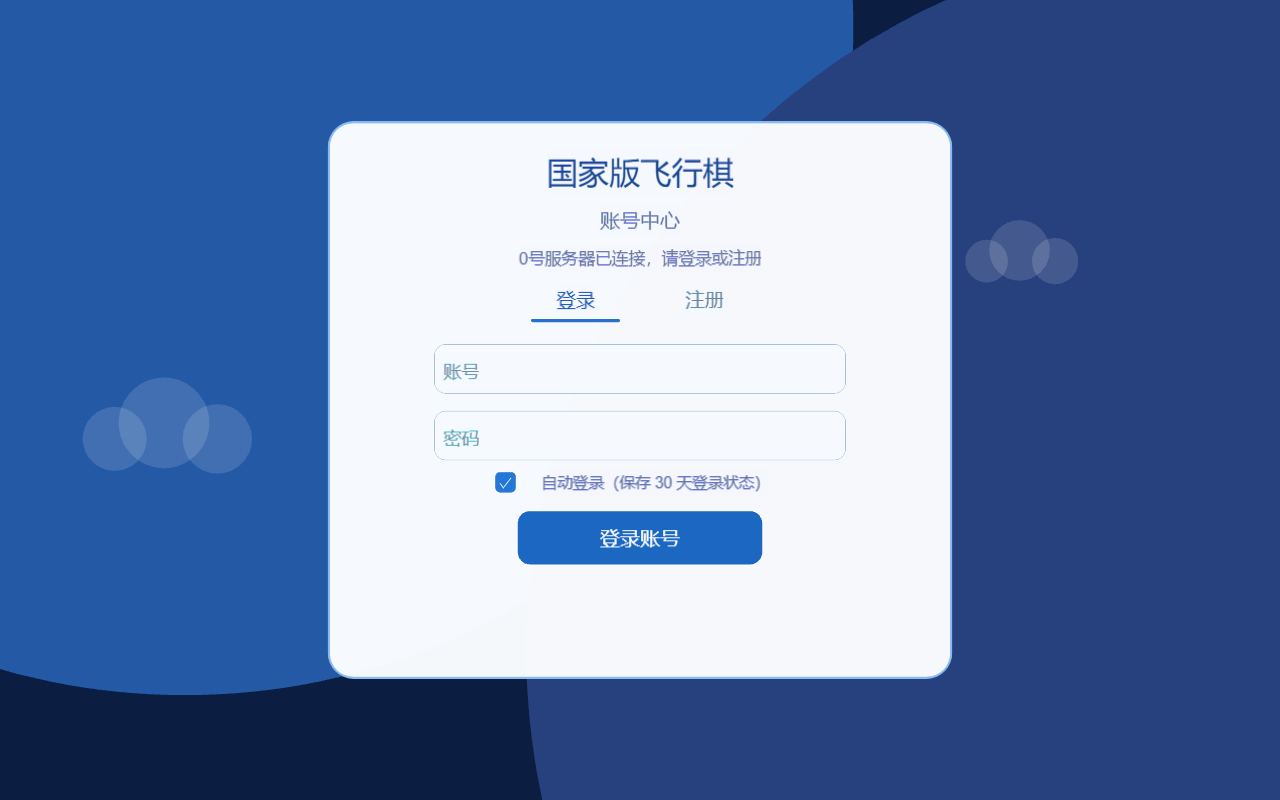
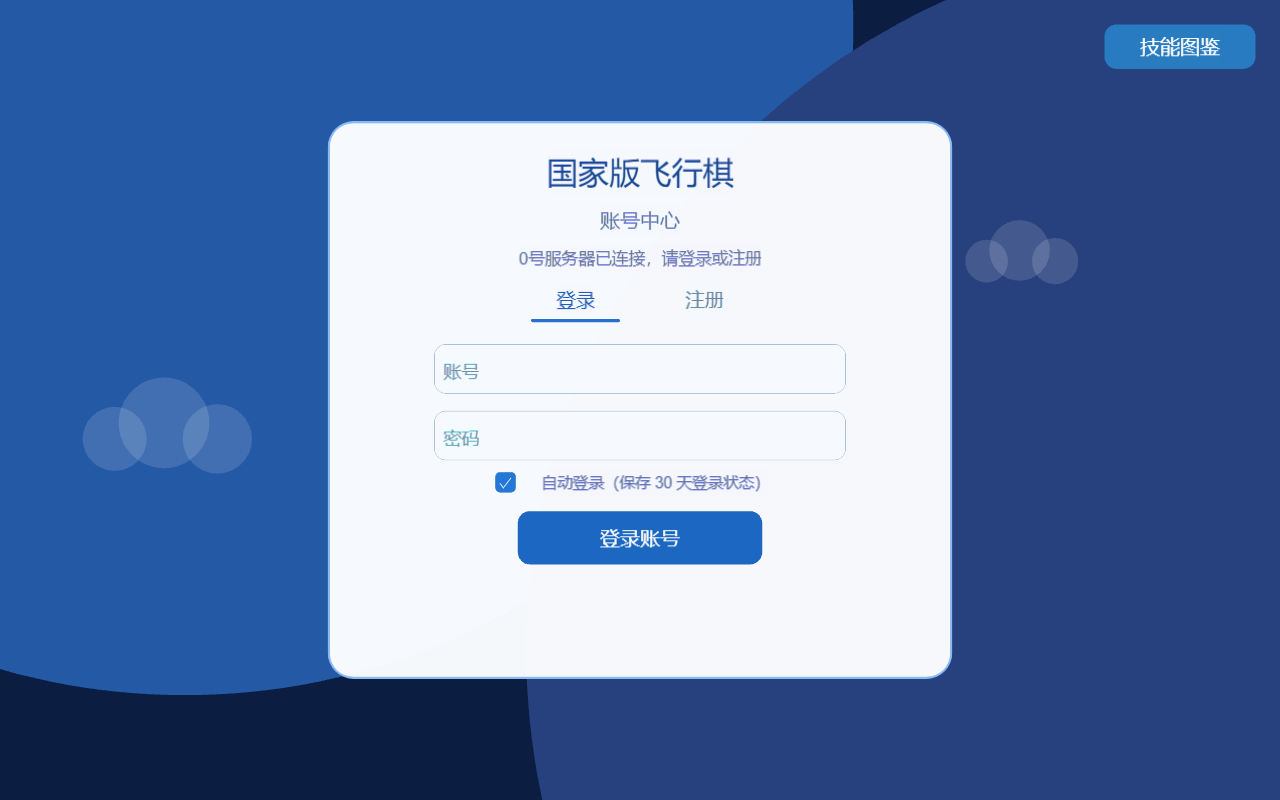
docs(client): record verified faction release and public smoke

Changed region(s): [[0.8438, 0.0312, 1.0, 0.0938]]

diff --git a/docs/重构进度日志.md b/docs/重构进度日志.md
@@ -83,3 +83,11 @@
 - 19 项客户端、54 项服务端，共 73 项自动化通过；两仓类型检查和契约校验通过。真实本机联机与五组技能浏览器验收通过，零页面错误，落点误差 <0.01；截图/JSON 在 `docs/verification`。
 - Web 与微信正式构建通过。微信 30 文件、3,556,038 字节，低于 4 MiB，仍未进行微信真机/上传。
 - 两仓 README、工作区 `../docs/README.md`、`../docs/测试文档.md`、规则计划与进度日志更新。K4 发布时会固定服务端 CI 对应客户端提交；发布结果另记，旧容量报告不代表新版实测。
+
+## K4 发布验收完成（2026-09-11）
+
+- 客户端 `3aa8a94` 已推送并部署，发布编号 `3aa8a94eb405-1789105878006`；服务端 `f430d83` 已由 CI 自动部署，协议 v3 配套上线。客户端 CI [34567602979](https://github.com/VoidInHeart/SkillLudo_Client/actions/runs/34567602979) 成功，服务端 CI [34567642123](https://github.com/VoidInHeart/SkillLudo_Server/actions/runs/34567642123) 成功。
+- 发布包工作树干净，原始 3,754,378 字节、gzip 传输约 2,045,279 字节。前后端均保留上版镜像记录，可配套回退；升级不迁移旧内存棋局。
+- 公网页面 <http://81.70.145.148> 与本机构建预览均使用未经替换的实际 `ws://81.70.145.148`，双人开房/选阵营/开局/双骰预选/一次提交通过，两个浏览器各零错误；证据 `published-result.json`、`local-preview-result.json`。独立公网 v3 WebSocket 冒烟最终通过，revision 为 `f430d83`。
+- 切换路由后的首次健康请求曾超时，后续收敛正常；远端本机 readyz 约 2.6 ms，Pod 均 1/1、0 重启，Node 约 32 MiB、Nginx 约 3 MiB（短时空闲观测，不是容量测试）。
+- 无新增 GitHub Secret；现有后端 production 的 `DEPLOY_SSH_KEY`、`DEPLOY_KNOWN_HOSTS` 与 `DEPLOY_HOST`、`DEPLOY_USER` 已核验配置。最终文档提交不触发部署，线上代码保持上述版本。

diff --git a/docs/verification/README.md b/docs/verification/README.md
@@ -10,6 +10,8 @@
 
 最新微信 `wechat-build-result.json` 为 30 文件、3,556,038 字节，4 MiB 预算内，仍只代表静态构建；无微信真机、上传或审核验证。下面日期较早的段落为历史边界。
 
+`published-result.json` 已更新为 2026-09-11 上线后的真实公网验收：前端 `3aa8a94` / 后端 `f430d83`，无地址替换，双人房间/选阵营/双骰预选/原子移动通过；`local-preview-result.json` 是同日从本机预览自动连接公网的结果。两次浏览器均零错误。生产版本清单为 `release-v3.json`。
+
 所有截图来自构建后的 Cocos Web 运行画面。使用两个隔离浏览器上下文连接本地真实 WebSocket 服务；Chrome 以 SwiftShader 软件渲染运行，因此不把桌面帧率作为手机性能结论。
 
 | 检查 | 证据 |
